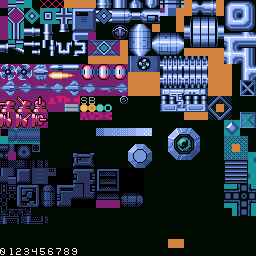
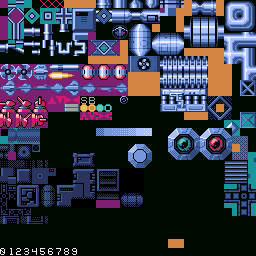
迷宮ステージボス

Changed region(s): [[0.7812, 0.5, 0.9062, 0.625]]

diff --git a/source/enemy.py b/source/enemy.py
@@ -235,6 +235,9 @@ class CountMover:
 	SET_DEG = 10
 	ACCEL_MAX = 11
 	SET_INDEX = 100
+	LOOP_START = 101
+	LOOP_END = 102
+	NO_MOVE = -8888
 	def __init__(self, obj, table, loopFlag, selfMove=True):
 		self.obj = obj
 		self.table = table
@@ -254,6 +257,8 @@ class CountMover:
 		self.rad = 0.0
 		self.deg = 0.0
 		self.mode = 0
+		self.loopCounterArray = []
+		self.loopTableIndexArray = []
 
 	def update(self):
 		self.cycleFlag = False
@@ -267,7 +272,6 @@ class CountMover:
 				# X座標変化なし
 				self.dx = 0
 				self.dy = item[4]
-				self.obj.x += self.dx
 				self.obj.y += self.dy
 				xx = 0
 				yy = item[3] -self.obj.y
@@ -276,7 +280,20 @@ class CountMover:
 				self.dx = item[4]
 				self.dy = 0
 				self.obj.x += self.dx
+				xx = item[2] -self.obj.x
+				yy = 0
+			elif item[2] == __class__.NO_MOVE:
+				# X座標変化なし
+				self.dx = 0
+				self.dy = item[4] if self.obj.y < item[3] else -1 * item[4]
 				self.obj.y += self.dy
+				xx = 0
+				yy = item[3] -self.obj.y
+			elif item[3] == __class__.NO_MOVE:
+				# Y座標変化なし
+				self.dx = item[4] if self.obj.x < item[2] else -1 * item[4]
+				self.dy = 0
+				self.obj.x += self.dx
 				xx = item[2] -self.obj.x
 				yy = 0
 			else:
@@ -368,9 +385,23 @@ class CountMover:
 						self.dy = item[5]
 				self.obj.x += self.dx
 				self.obj.y += self.dy
-			elif mode == 100:
+			elif mode == __class__.SET_INDEX:
 				self.tableIndex = item[2]
 				self.cnt = 0
+			elif mode == __class__.LOOP_START:
+				self.loopCounterArray.append(item[2])	# loop count
+				self.loopTableIndexArray.append(self.tableIndex+1)
+			elif mode == __class__.LOOP_END:
+				# 最後の値
+				cnt = self.loopCounterArray[-1]
+				cnt -= 1
+				if cnt <= 0:
+					self.loopCounterArray.pop(-1)
+					self.loopTableIndexArray.pop(-1)
+					self.nextTable()
+				else:
+					self.loopCounterArray[-1] = cnt
+					self.tableIndex = self.loopTableIndexArray[-1]
 			elif mode == -1:
 				# 停止
 				self.dx = 0.0

diff --git a/source/drawing.py b/source/drawing.py
@@ -474,4 +474,10 @@ class Drawing:
         for i in range(len(points)-1):
             pyxel.line(points[i][0], points[i][1], points[i+1][0], points[i+1][1], clr)
 
+    @classmethod
+    def blt(cls, x, y, img, u, v, w, h, colkey=-1):
+        pyxel.blt(gcommon.sint(x), gcommon.sint(y), img, u, v, w, h, colkey)
 
+    @classmethod
+    def bltm(cls, x, y, tm, u, v, w, h, colkey=-1):
+        pyxel.bltm(gcommon.sint(x), gcommon.sint(y), tm, u, v, w, h, colkey)

diff --git a/source/story.py b/source/story.py
@@ -16,6 +16,7 @@ import bossWarehouse
 import bossCave
 import bossFire
 import bossBattleShip
+import bossLabyrinth
 from enemyBattery import MovableBattery1
 from enemyBattery import ContainerCarrier1
 from enemyBattery import Tractor1
@@ -940,6 +941,7 @@ class Story:
 					[32, 0, 0.0, 2.0], [300, 0, -2.0, 0.0]
 				],
 			],
+			[6650, bossLabyrinth.BossLabyrinth, 0, 0 ],
 		]
 
 	@classmethod

diff --git a/source/gcommon.py b/source/gcommon.py
@@ -200,6 +200,13 @@ direction_map = [		\
 [-1,0],[-0.701,0.701],	\
 [0,1],[0.701,0.701]]
 
+# 上下は通常
+direction_map2 = [		\
+[1.0, 0.0], [0.701, 0.701],	\
+[0.0, 1.0], [-0.701, 0.701],	\
+[-1.0, 0.0], [-0.701, -0.701],	\
+[0.0, -1.0],[0.701, -0.701]
+]
 
 
 # ====================================================================

diff --git a/source/stage.py b/source/stage.py
@@ -241,6 +241,7 @@ class Stage:
         elif stage == "4B":
             # 迷宮
             pyxel.image(1).load(0,0,"assets/stage_labyrinth.png")
+            pyxel.image(2).load(0,0,"assets/stage_labyrinth2.png")
             gcommon.sync_map_y = 0
             gcommon.long_map = True
             gcommon.draw_star = True

diff --git a/source/graslay.py b/source/graslay.py
@@ -826,6 +826,7 @@ class MainGame:
 			[baseOffset +1720,SetMapScroll, 0.0, 0.50],
 			[baseOffset +2728,SetMapScroll, 0.50, 0.0],
 			[baseOffset +6000,StartBGM, BGM.BOSS],
+			[baseOffset +6552,SetMapScroll, 0.0, 0.0],
 		]
 
 	def initEventBattileShip(self):
